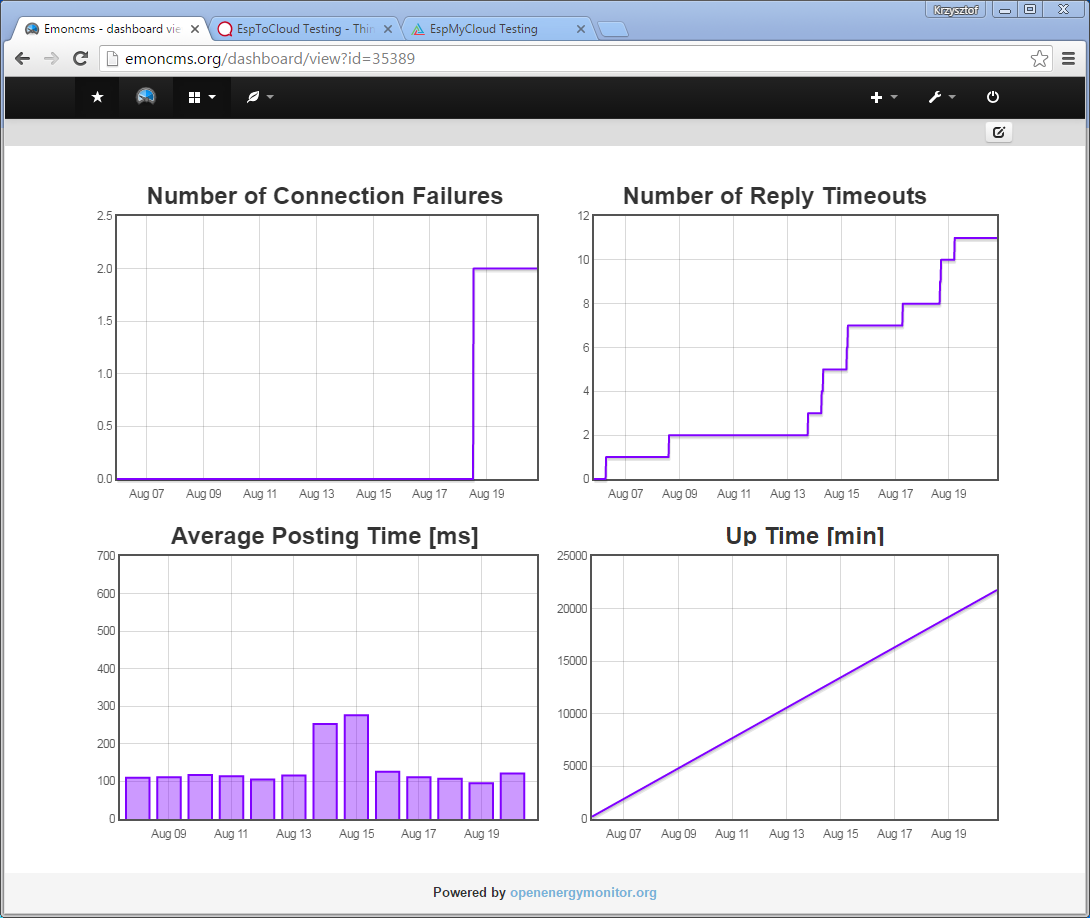
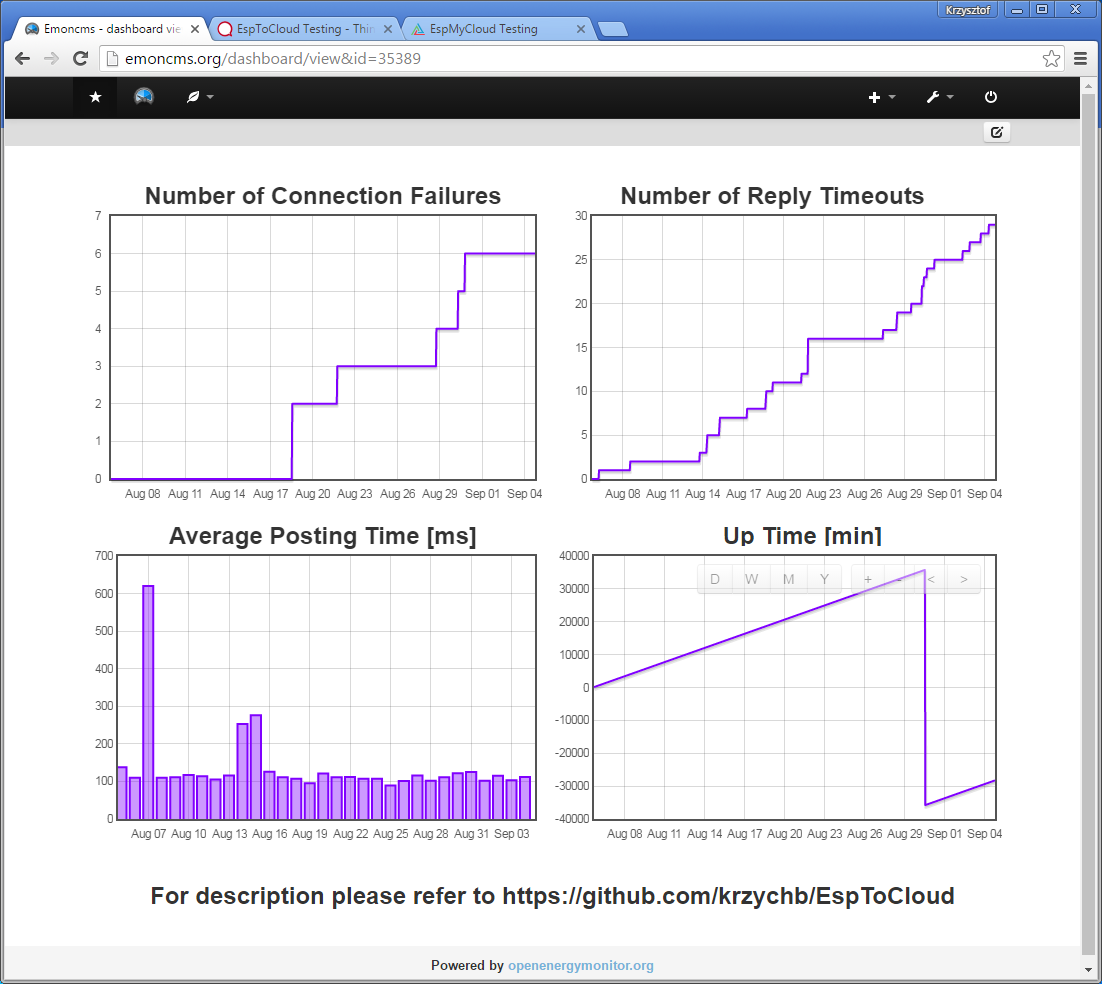
Resuts now cover one month

diff --git a/readme.md b/readme.md
@@ -132,7 +132,7 @@ On line dashboard with the data charts - https://thingspeak.com/channels/130476
 
 I got aware of this service because of [Keen IO](https://twitter.com/keen_io) liking my tweets. Then I got intrigued by Keen IO's ads offering API for analytics and pop-ups inviting to ask for support whenever I visited https://keen.io/. 
 
-I did not have any attractive IoT project involving data analytics and put trying Keen IO for later. Finally I decided study API documentation and after some testing with [cURL](https://en.wikipedia.org/wiki/CURL) I managed to post data to Keen IO's cloud. With this service you will be able to post data for free with rate of about once per a minute (50,000 per month). To post faster you need to pay. According to [Product / Plans](https://keen.io/plans/self-service/), as of August 2016, you may post 15,000,000 events per month for $1,000 (almost 6 times per second). Events are recorded as individual JSON objects and documentation provides extensive [API](https://keen.io/docs/api/) to manage the data. This is including [data enrichment](https://keen.io/docs/api/#data-enrichment) to e.g. associate a client’s IP address with geographical location of the client when the event was recorded. "Out of the box" visualization is provided on a *Dashboard* with the *Explorer* to set up basic charts and metrics. Feature rich data [analysis](https://keen.io/guides/tags/data-analysis/) and [visualization](https://keen.io/guides/tags/data-visualization/) is available using Keen IO’s [SDK's](https://keen.io/docs/sdks/). It is provided for several platforms / languages that you need to integrate with your system by yourself.
+I did not have any attractive IoT project involving data analytics and put trying Keen IO for later. Finally I decided study API documentation and after some testing with [cURL](https://en.wikipedia.org/wiki/CURL) I managed to post data to Keen IO's cloud. With this service you will be able to post data for free with rate of about once per a minute (50,000 per month). To post faster you need to pay. According to [Product / Plans](https://keen.io/plans/self-service/), as of August 2016, you may post 15,000,000 events per month for $1,000 (almost 6 times per second). Events are recorded as individual JSON objects and documentation provides extensive [API](https://keen.io/docs/api/) to manage the data. This is including [data enrichment](https://keen.io/docs/api/#data-enrichment) to e.g. associate a client’s IP address with geographical location of the client when the event was recorded. "Out of the box" visualization is provided on a *Dashboard* with the *Explorer* to set up basic charts and metrics. Feature rich data [analysis](https://keen.io/guides/tags/data-analysis/) and [visualization](https://keen.io/guides/tags/data-visualization/) is available using Keen IO’s [SDK's](https://keen.io/docs/sdks/). It is provided for several platforms / languages that you need to integrate with your system by yourself. Keen IO is managed and supported by nice and quite [big team](https://keen.io/team).
 
 ![alt text](pictures/keenio-dashboard.png "Keen IO dashboard")
 
@@ -156,13 +156,13 @@ To provide some indication what to expect from a cloud service for free, out of 
 * number of reply timeouts by the cloud service : `EspCloud_ReplyTimeouts`
 * time in milliseconds that took to transmit the data and obtain a reply from the service in previous post request : `EspCloud_PostingTime`
 
-Table below contains data collected over the period of 15 days from 5 till 20 August 2016.
+Table below contains data collected over the period of one month from 5 August till 4 September 2016.
 
 | Parameter / Cloud Service | Emoncms | ThingSpeak | Keen IO |
 | :---: | :---: | :---: | :---: |
-| Number of Connection Failures | 2 | 2 | 6 |
-| Number of Reply Timeouts | 11 | 32 | 186 |
-| Average Posting Time [ms] | 140 | 430 | 730 |
+| Number of Connection Failures | 6 | 5 | 20 |
+| Number of Reply Timeouts | 29 | 104 | 321 |
+| Average Posting Time [ms] | 140 | 430 | 710 |
 
 The data have been posted by a single ESP8266 module using [this sketch](EspToCloud-All/EspToCloud-All.ino) to [Emoncms](http://emoncms.org/), [ThinkSpeak](https://thingspeak.com/) and [Keen IO](https://keen.io/). Positing period was 60 seconds for each application so individual services were contacted every 20 seconds. Module was running patiently and continuously without any restarts so I decided to picture it below. 
 
